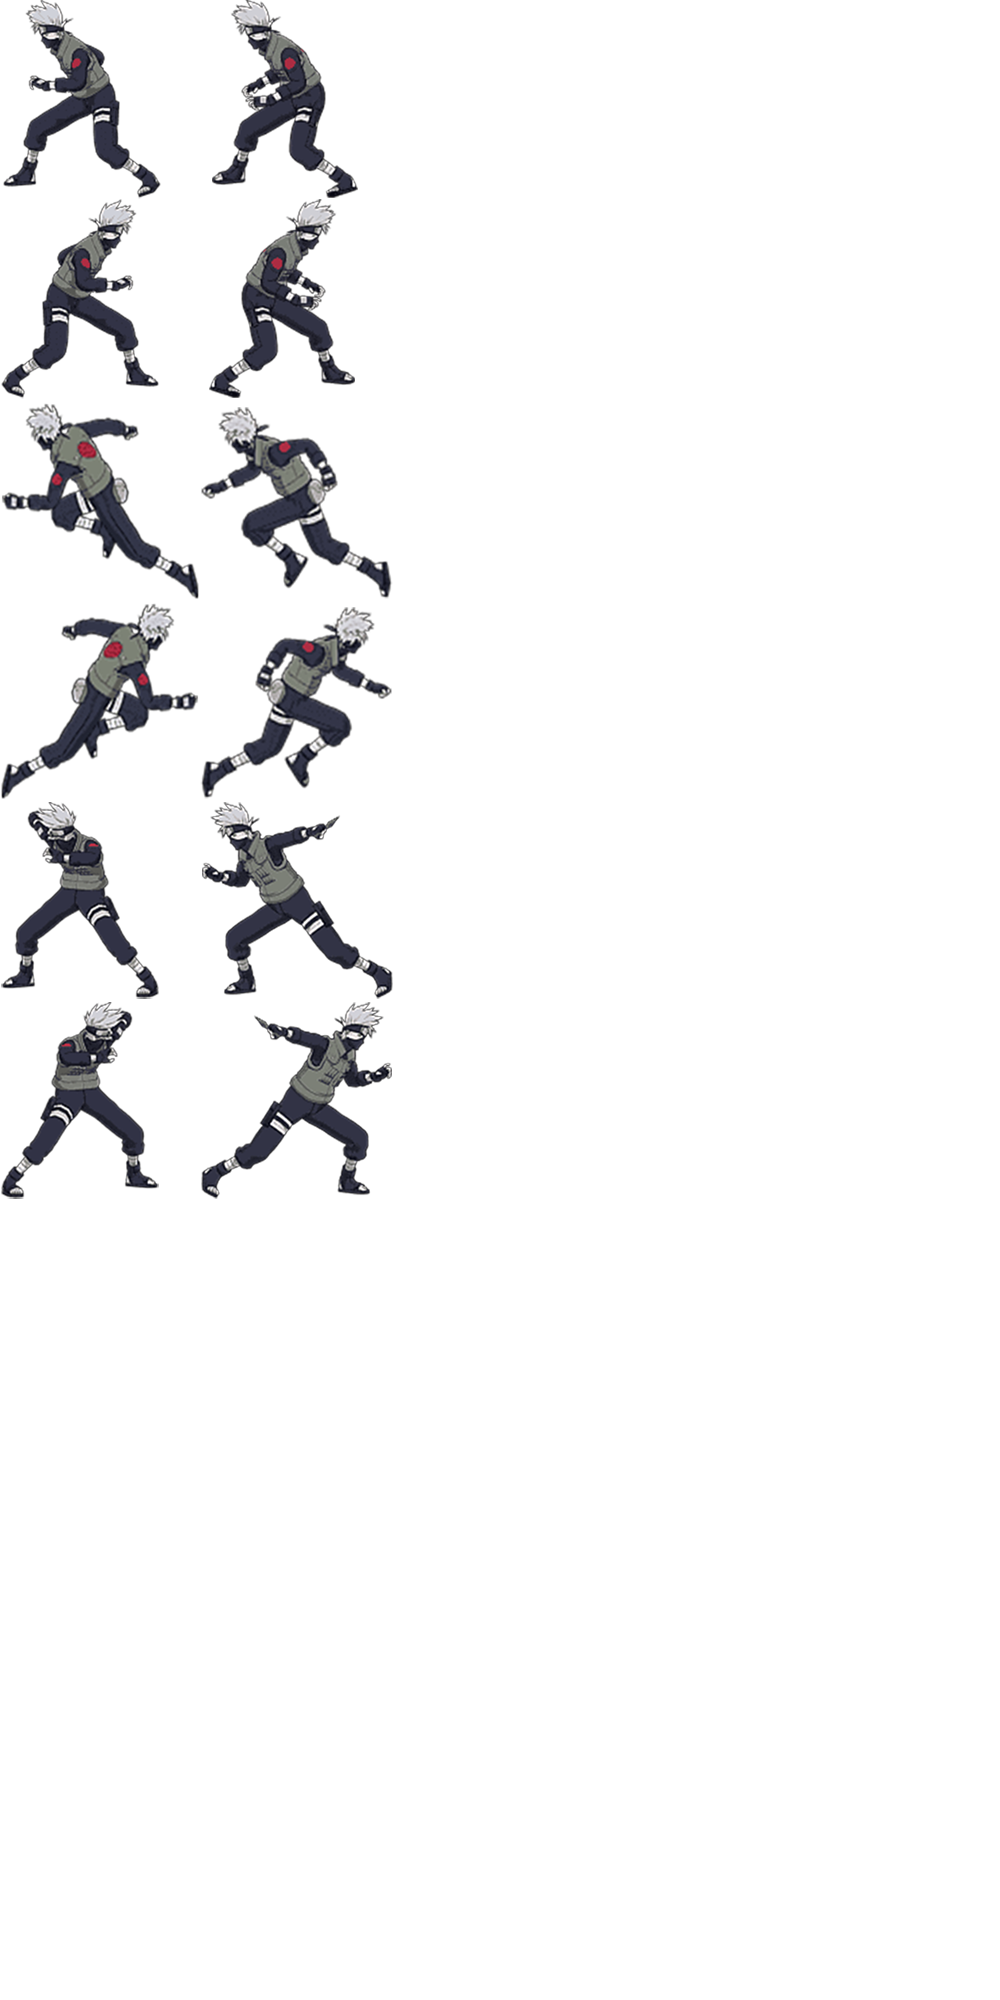
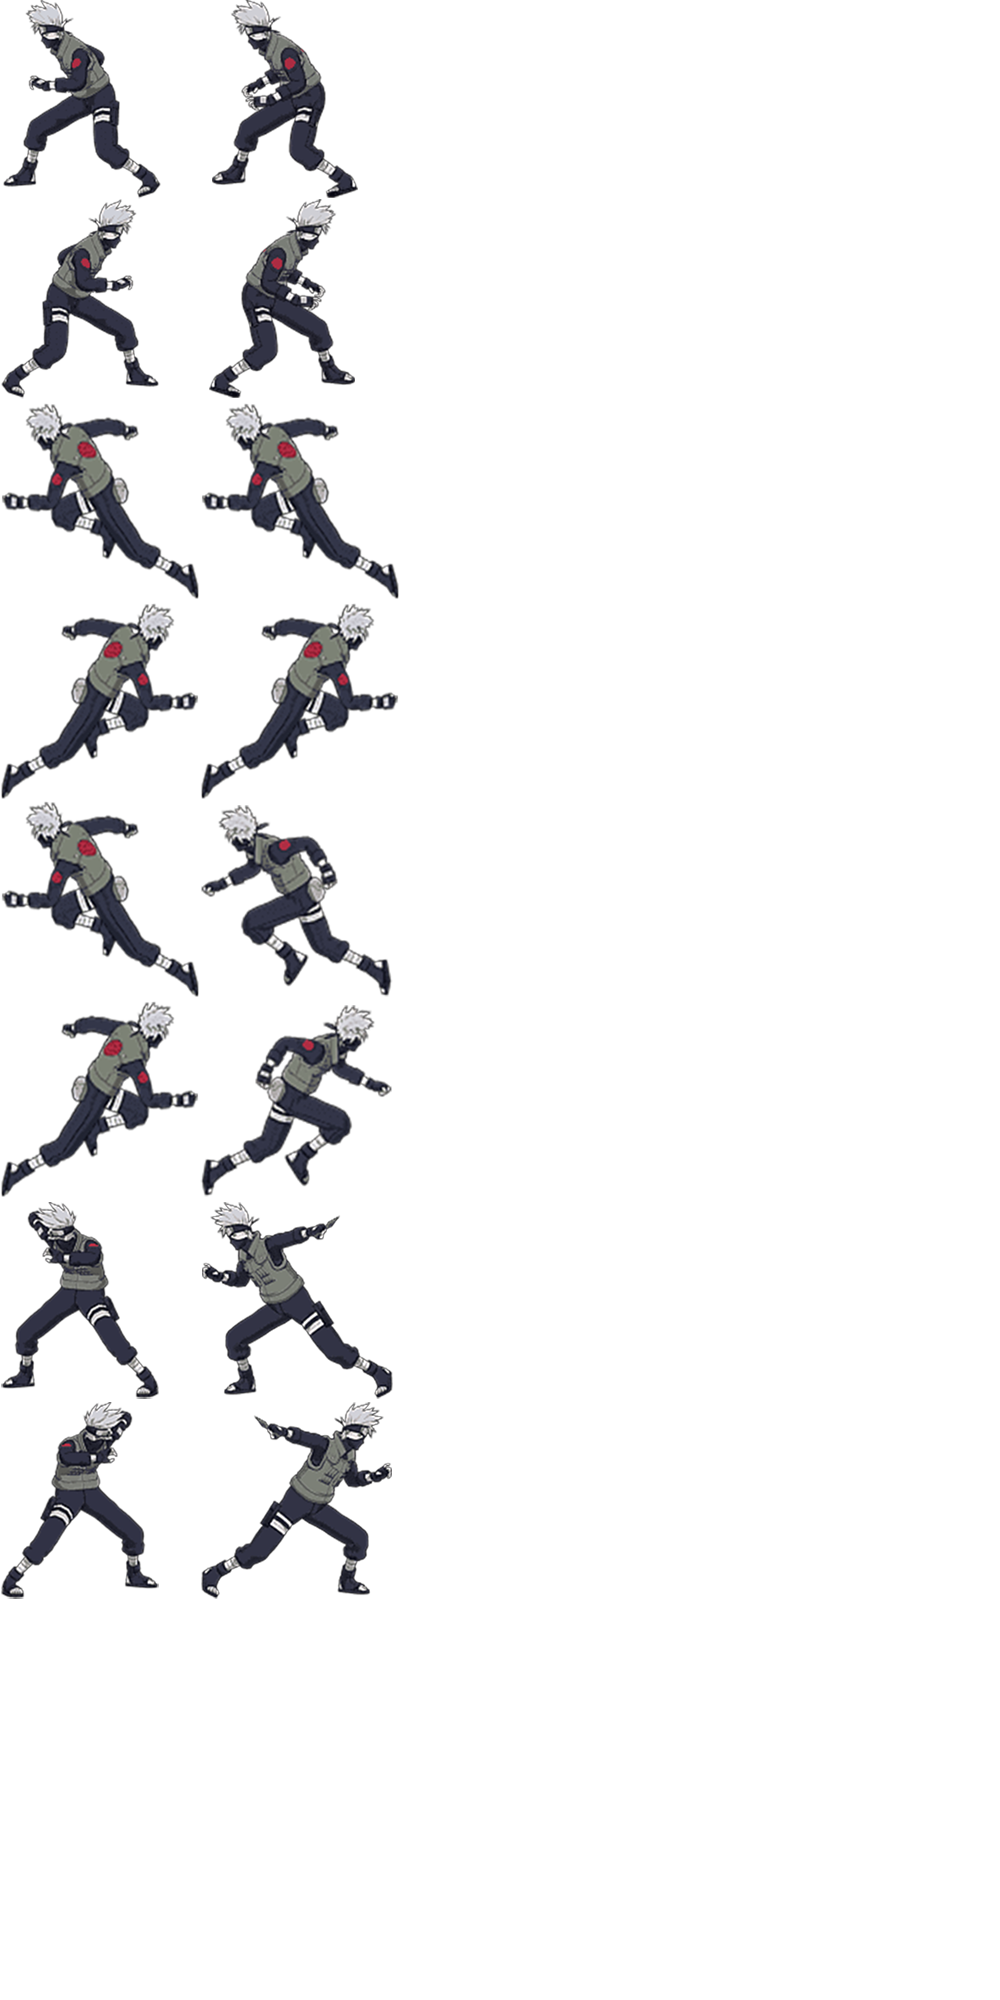
animaciones incluidas, balas y disparos enemigos añadidos

Changed region(s): [[0.0, 0.186, 0.403, 0.806]]

diff --git a/js/game.js b/js/game.js
@@ -19,7 +19,7 @@ const shinobiApp = {
     mapSize: 10000,
     background: undefined,
     player: undefined,
-    enemys: [],
+    enemies: undefined,
     sprites: [],
     bull: undefined,
     frames: 0,
@@ -34,8 +34,11 @@ const shinobiApp = {
 
         this.player = new Player(this.ctx, './images/player.png')
 
-        this.sprites.push(new Sprite(this.ctx, './images/obstacle.png', 400, canvasH - 105, 100, 100))
+        this.sprites.push(new Sprite(this.ctx, './images/obstacle.png', 250, canvasH - 105, 100, 100))
         this.sprites.push(new Sprite(this.ctx, './images/obstacle.png', 700, canvasH - 55, 50, 50))
+        
+        this.sprites.push(new Enemy(this.ctx, './images/enemy.png', 400, canvasH - 105, 100, 100))
+        console.log(this.sprites)
         this.gameOn()
         
         //this.bull = new Bullet(this.ctx, './images/shuriken1.png', this.player.playerPos.x + this.player.playerSize.w, this.player.playerPos.y, 10, 10)
@@ -51,7 +54,7 @@ const shinobiApp = {
             this.movementLoop()
             this.drawLoop()
             this.setEventListeners()
-        }, 30)
+        }, 30)  
 
     },
 
@@ -66,7 +69,9 @@ const shinobiApp = {
                     if (this.player.playerPos.y + this.player.playerSize.h > elm.spritePos.y - 2 // Up
                     && this.player.playerPos.y < elm.spritePos.y + elm.spriteSize.h + 2) {
                         this.player.collidesX = 1
-                        const protection =  5
+                        const protection = 5
+                        if (elm.fromEnemy === 1 || elm.constructor.name === 'Enemy')
+                            alert("GAME OVER")
                         if (this.player.playerDir === 1) {
                             this.sprites.forEach(elm => {
                                 elm.spritePos.x += protection
@@ -86,12 +91,14 @@ const shinobiApp = {
 
     checkColisionY() {
         this.sprites.forEach(elm => {
-            if ((this.player.playerPos.x + this.player.playerSize.w > elm.spritePos.x ) // Left
-            && (this.player.playerPos.x < elm.spritePos.x + elm.spriteSize.w) // Right
+            if ((this.player.playerPos.x + this.player.playerSize.w > elm.spritePos.x ) // Left 
+            && (this.player.playerPos.x < elm.spritePos.x + elm.spriteSize.w) // Right 
             && (this.player.playerPos.y + (this.player.playerSpeedY) + this.player.playerSize.h > elm.spritePos.y) // Up
             && (this.player.playerPos.y + (this.player.playerSpeedY) < elm.spritePos.y + elm.spriteSize.h)) { // Right
                 if ((this.player.playerPos.x + this.player.playerSize.w > elm.spritePos.x ) // Left
                 && (this.player.playerPos.x < elm.spritePos.x + elm.spriteSize.w)) {
+                    if (elm.fromEnemy === 1 || elm.constructor.name === 'Enemy')
+                    alert("GAME OVER")
                     this.player.collidesY = 1
                     this.player.playerPos.y = elm.spritePos.y -this.player.playerSize.h -2
                 }
@@ -99,7 +106,6 @@ const shinobiApp = {
             if ((this.player.playerPos.y + this.player.playerSize.h < elm.spritePos.y +5)
                 && (this.player.playerPos.y + this.player.playerSize.h > elm.spritePos.y)) {
                     this.player.onSprite = 1
-                    console.log(this.player.onSprite)
             }
             
             
@@ -110,18 +116,29 @@ const shinobiApp = {
     this.sprites.forEach((elm) => {
         count++
         if (elm.isBullet === 1) {
-            for (let i = count - 2; i >= 0; i--){
-                if (this.sprites[i].spritePos.x > elm.spritePos.x - 15
-                    && this.sprites[i].spritePos.x < elm.spritePos.x + 15
-                    && this.sprites[i].spritePos.y < elm.spritePos.y + elm.spriteSize.h) {
-                    console.log(this.sprites[i].spritePos.x)
-                    console.log(elm.spritePos.x)
-                    elm.retire = 1
+            for (let i = count - 2; i >= 0; i--) {
+                if (this.sprites[i].constructor.name !== 'Enemy' || elm.fromEnemy !== 1) {
+                    if (elm.dirBullet === 1 && this.sprites[i].spritePos.x > elm.spritePos.x - 15
+                        && this.sprites[i].spritePos.x < elm.spritePos.x + 15
+                        && this.sprites[i].spritePos.y < elm.spritePos.y + elm.spriteSize.h) {
+                    
+                        elm.retire = 1
+                        if (this.sprites[i].constructor.name === 'Enemy')
+                            this.sprites[i].retire = 1
+                    }
+                    else if (elm.dirBullet === - 1 && this.sprites[i].spritePos.x + this.sprites[i].spriteSize.w > elm.spritePos.x - 5
+                        && this.sprites[i].spritePos.x < elm.spritePos.x + 5
+                        && this.sprites[i].spritePos.y < elm.spritePos.y + elm.spriteSize.h) {
+                    
+                        elm.retire = 1
+                        if (this.sprites[i].constructor.name === 'Enemy')
+                            this.sprites[i].retire = 1
+                    }
                 }
             }
         }
     })
-        return 0
+    return 0
     },
 
     movementLoop() {
@@ -139,8 +156,6 @@ const shinobiApp = {
                     if (elm.isBullet === 1) {
                         if (!this.checkBulletsColision())
                             elm.moveBullet()
-                        else
-                            alert("que si xoco empanao")
                     }
                     else
                         elm.move(this.player.playerSpeedX)
@@ -163,7 +178,7 @@ const shinobiApp = {
             }
             this.player.playerPos.y += this.player.playerSpeedY //movimiento vertical
             this.checkColisionY()
-            
+
         }
 
         if ( !this.player.onFloor) {
@@ -182,12 +197,31 @@ const shinobiApp = {
     
 
         this.player.draw()
-        this.sprites.forEach(elm => elm.draw())
+
+
+        this.sprites.forEach(elm => elm.draw(this.player.playerSize.w)) 
+
+        this.sprites.forEach(elm => {
+            if (elm.constructor.name === 'Enemy' && FRAMES % 30 === 0) {
+                this.createBullet(2, elm.spritePos.x, elm.spritePos.y)
+            }
+        })
+
+
         
     }, // KEYCODES
-    createBullet() {
-        this.bull = new Bullet(this.ctx, './images/shuriken1.png', this.player.playerPos.x + this.player.playerSize.w, this.player.playerPos.y, 10, 10)
-        this.sprites.push(this.bull)
+    createBullet(fromWho, posx, posy) {
+        if(fromWho === 1){
+            this.bull = new Bullet(this.ctx, './images/shuriken1.png', (this.player.playerPos.x + this.player.playerSize.w / 2 + this.player.playerDir * this.player.playerSize.w * 0.55), this.player.playerPos.y + this.player.playerSize.h / 4, 10, 10,)
+            this.bull.dirBullet = this.player.playerDir
+            this.sprites.push(this.bull)
+        }
+        else{
+            this.bull = new Bullet(this.ctx, './images/shuriken1.png', posx - 15, posy, 10, 10,)
+            this.bull.dirBullet = -1
+            this.bull.fromEnemy = 1
+            this.sprites.push(this.bull)
+        }
     },
     setEventListeners() {
         document.onkeydown = e => {
@@ -195,7 +229,7 @@ const shinobiApp = {
             e.keyCode === 37 ? this.player.move(-1, 5) : null
             e.keyCode === 39 ? this.player.move(+1, 5) : null
             e.keyCode === 32 && (this.player.onFloor || this.player.onSprite) ? this.player.jump() : null
-            e.keyCode === 65 ? this.createBullet() : null
+            e.keyCode === 65 ? this.createBullet(1) : null
         }
 
         document.onkeyup = e => {

diff --git a/js/player.js b/js/player.js
@@ -2,8 +2,8 @@ class Player {
     constructor(ctx, img) {
         this.ctx = ctx
         this.playerSize = {
-            w: 75,
-            h: 75,
+            w: 100,
+            h: 100,
         }
         this.playerPos = {
             x: 100,
@@ -25,8 +25,8 @@ class Player {
     }
     draw() {
         const drawOriginX = 200 * this.selectFrame()
-       // const drawOriginY = selectLook()
-        this.ctx.drawImage(this.playerImg, drawOriginX, 200, 200, 200, this.playerPos.x, this.playerPos.y,  this.playerSize.w , this.playerSize.h)
+        const drawOriginY = this.selectLook()
+        this.ctx.drawImage(this.playerImg, drawOriginX, drawOriginY, 200, 200, this.playerPos.x, this.playerPos.y,  this.playerSize.w , this.playerSize.h)
     }
     selectFrame() {
          let chosenFrame = 0
@@ -40,10 +40,16 @@ class Player {
      }
      selectLook() {
          let chosenLook = 100
-        //  if (!this.onFloor && !this.onSprite)
-        //  if isju
+         if (!this.onFloor && !this.onSprite) {
+             chosenLook = 500
+         } else if (this.playerSpeedX != 0) {
+             chosenLook = 900
+         } else {
+             chosenLook =100
+         }
+         chosenLook += this.playerDir * 100
+         return chosenLook
      }
-
     move(dir, speed) {
         this.playerDir = dir
         this.playerSpeedX = speed * dir
@@ -51,7 +57,6 @@ class Player {
     jump() {
         this.onFloor = 0
         this.onSprite = 0
-
         this.playerSpeedY = -30    
     }
 }    

diff --git a/js/bullet.js b/js/bullet.js
@@ -1,10 +1,20 @@
 class Bullet extends Sprite {
     isBullet = 1
-    draw() {
-        this.ctx.drawImage(this.spriteImg, this.spritePos.x, this.spritePos.y,  this.spriteSize.w , this.spriteSize.h)
+    dirBullet = 0
+    fromEnemy = 0
+    draw(playerSizeW) {
+        if (this.dirBullet > 0) {
+            this.ctx.drawImage(this.spriteImg, this.spritePos.x, this.spritePos.y,  this.spriteSize.w , this.spriteSize.h)
+        }
+        else {
+            this.ctx.drawImage(this.spriteImg, this.spritePos.x, this.spritePos.y,  this.spriteSize.w , this.spriteSize.h)
+        }
     }
     moveBullet() {
-        this.spritePos.x++
+        if(this.dirBullet === 1)
+            this.spritePos.x += 5
+        else
+            this.spritePos.x -= 5
     }
 
 }

diff --git a/js/enemy.js b/js/enemy.js
@@ -1,21 +1,13 @@
-class enemy {
-    constructor(ctx) {
-        this.ctx = ctx
-        this.enemyPos = {
-            x: 0,
-            y: 0
-        }
-        this.enemyImg = undefined
-        this.enemySize = {
-            w: 200,
-            h: 300,
-        }
-        this.enemySpeed = this.ctx.speed
-        this.enemyDir = -1
-
+class Enemy extends Sprite{
+    
+    draw() {
+        console.log("entro")
+        this.ctx.drawImage(this.spriteImg, this.spritePos.x, this.spritePos.y,  this.spriteSize.w , this.spriteSize.h)
     }
-    move(playerSpeedX) {
-            this.enemyPos.x -= playerSpeedX
+    // move(playerSpeedX) {
+    //         this.enemyPos.x -= playerSpeedX
+    // }
+    shot() {
+        
     }
-  
 }
